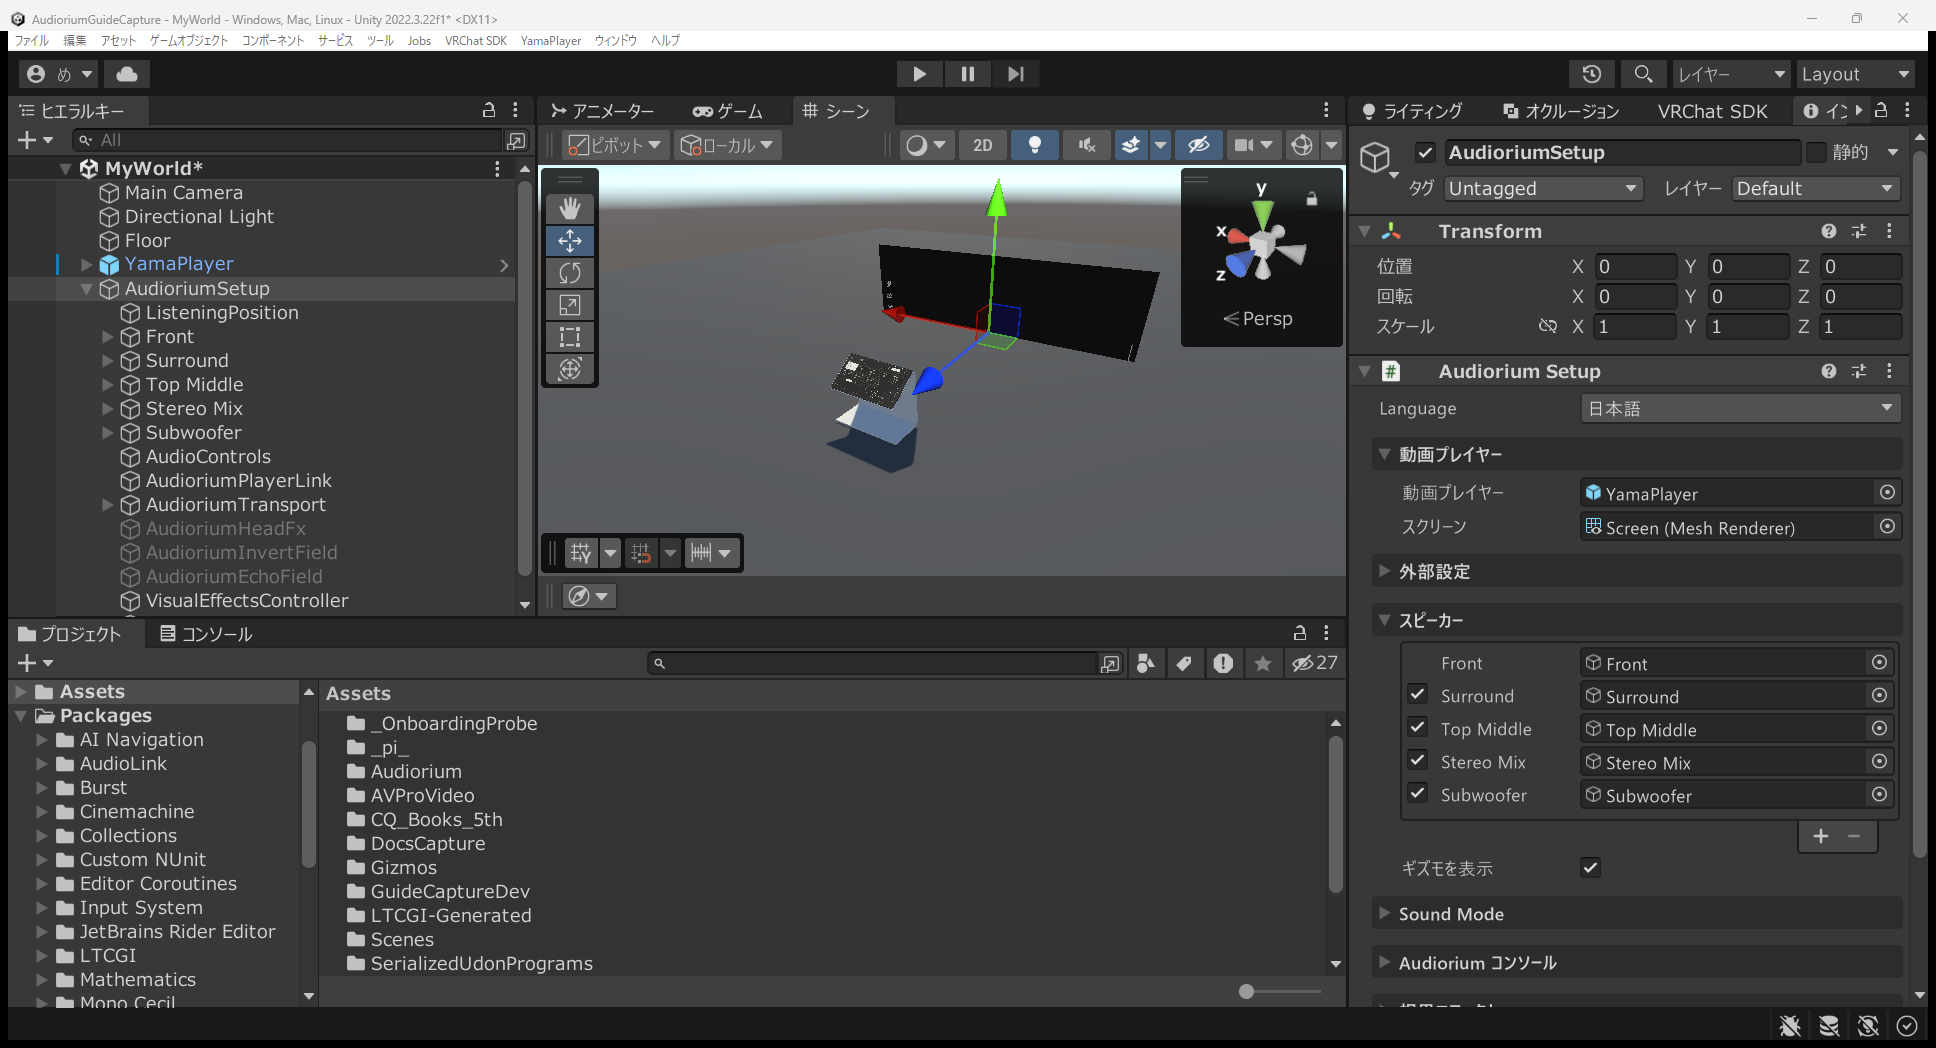
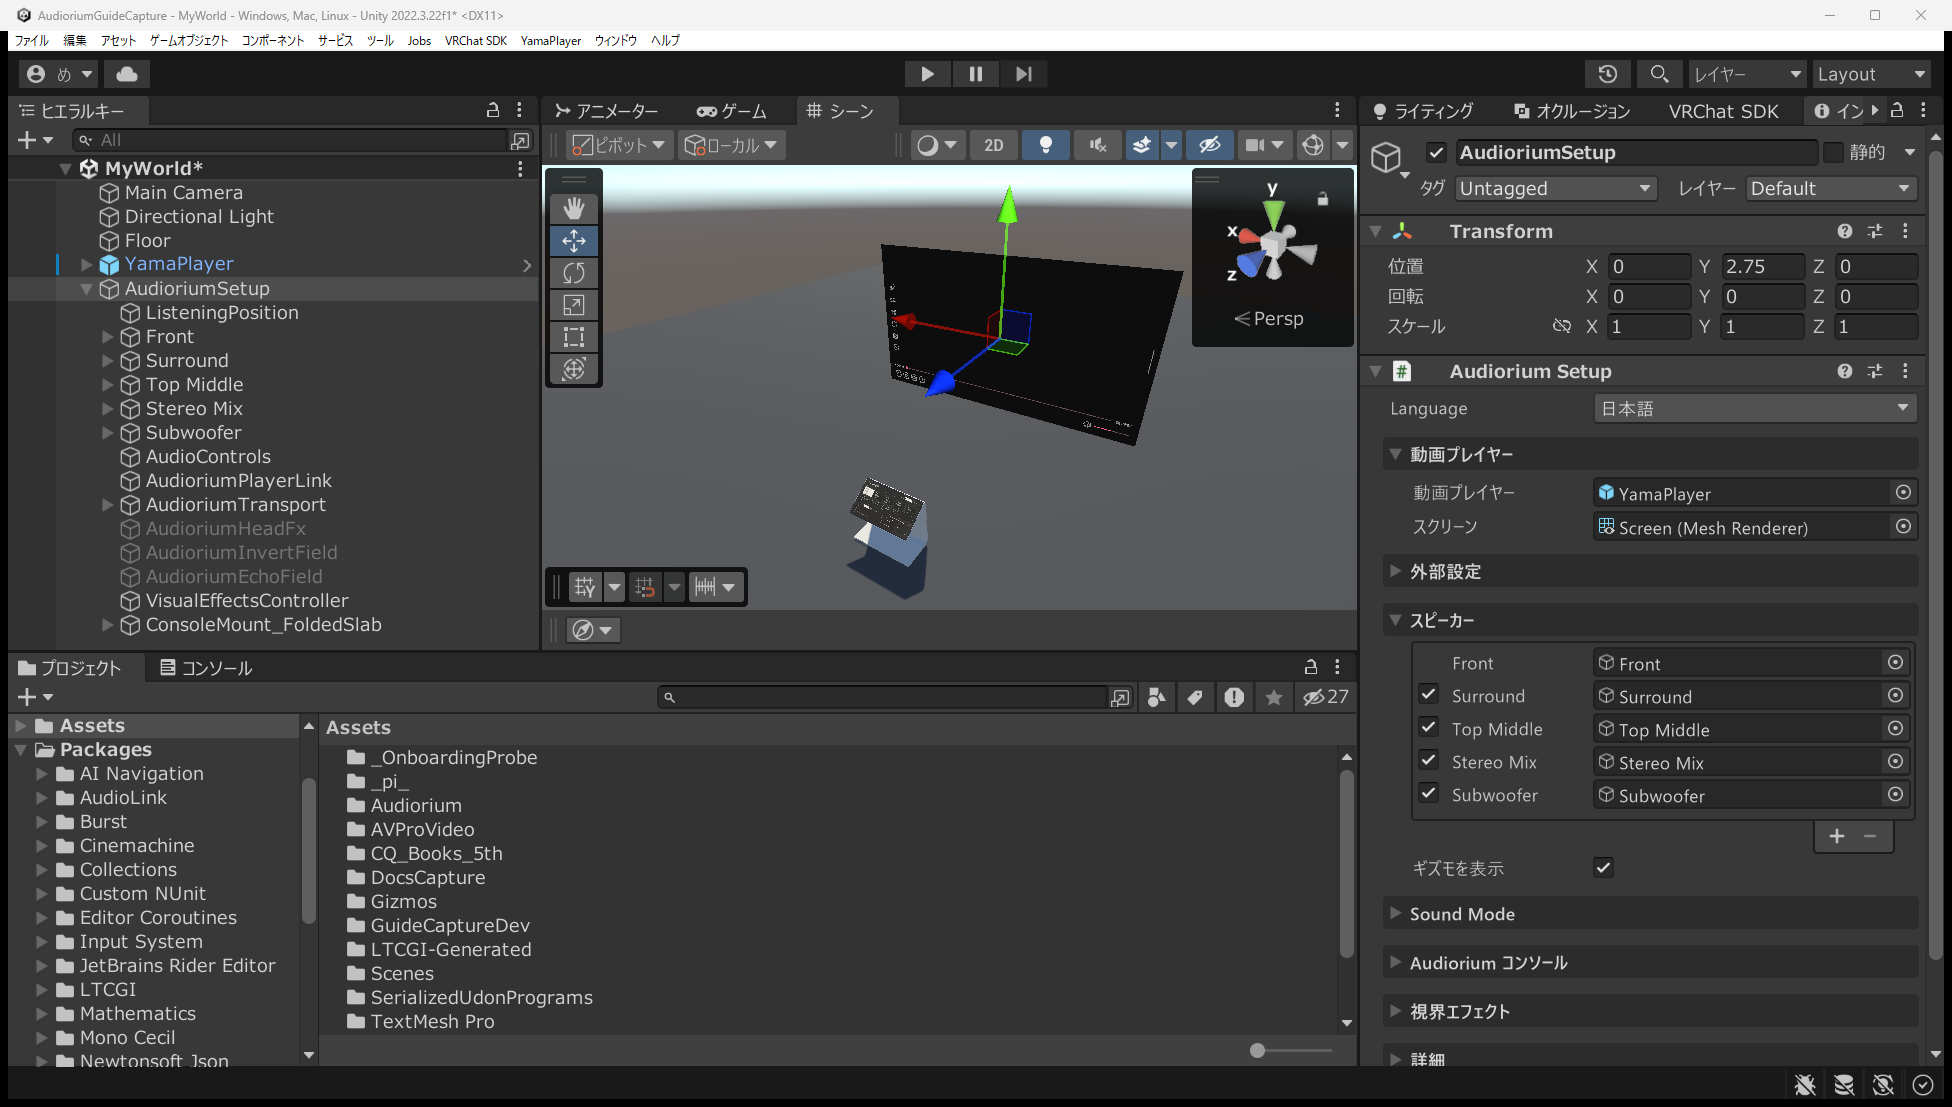
できることの画像の右端を罫と表にそろえ、クイックスタートの手順 1・2 の画像を、スクリーンが床の上に立つ状態で撮り直す（手順 1 は Hierarchy と Scene を本文の幅で）

diff --git a/src/css/custom.css b/src/css/custom.css
@@ -398,7 +398,6 @@ body {
 .zoomable-image--full {
   display: block;
   width: 100%;
-  max-width: 42rem;
 }
 
 .zoomable-image--full img {
